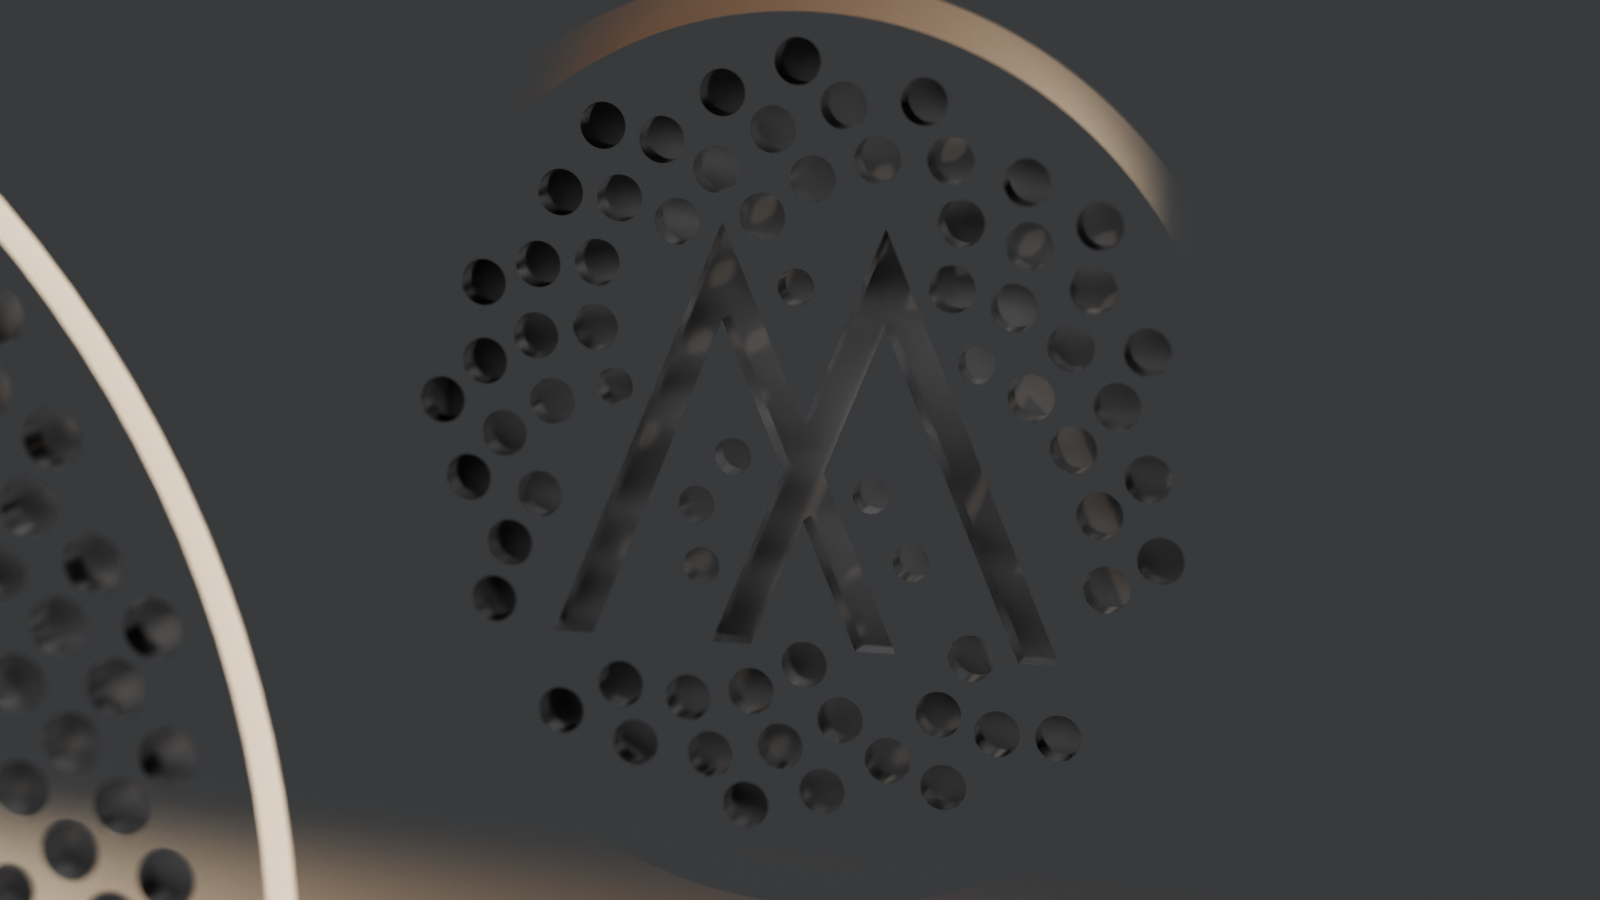
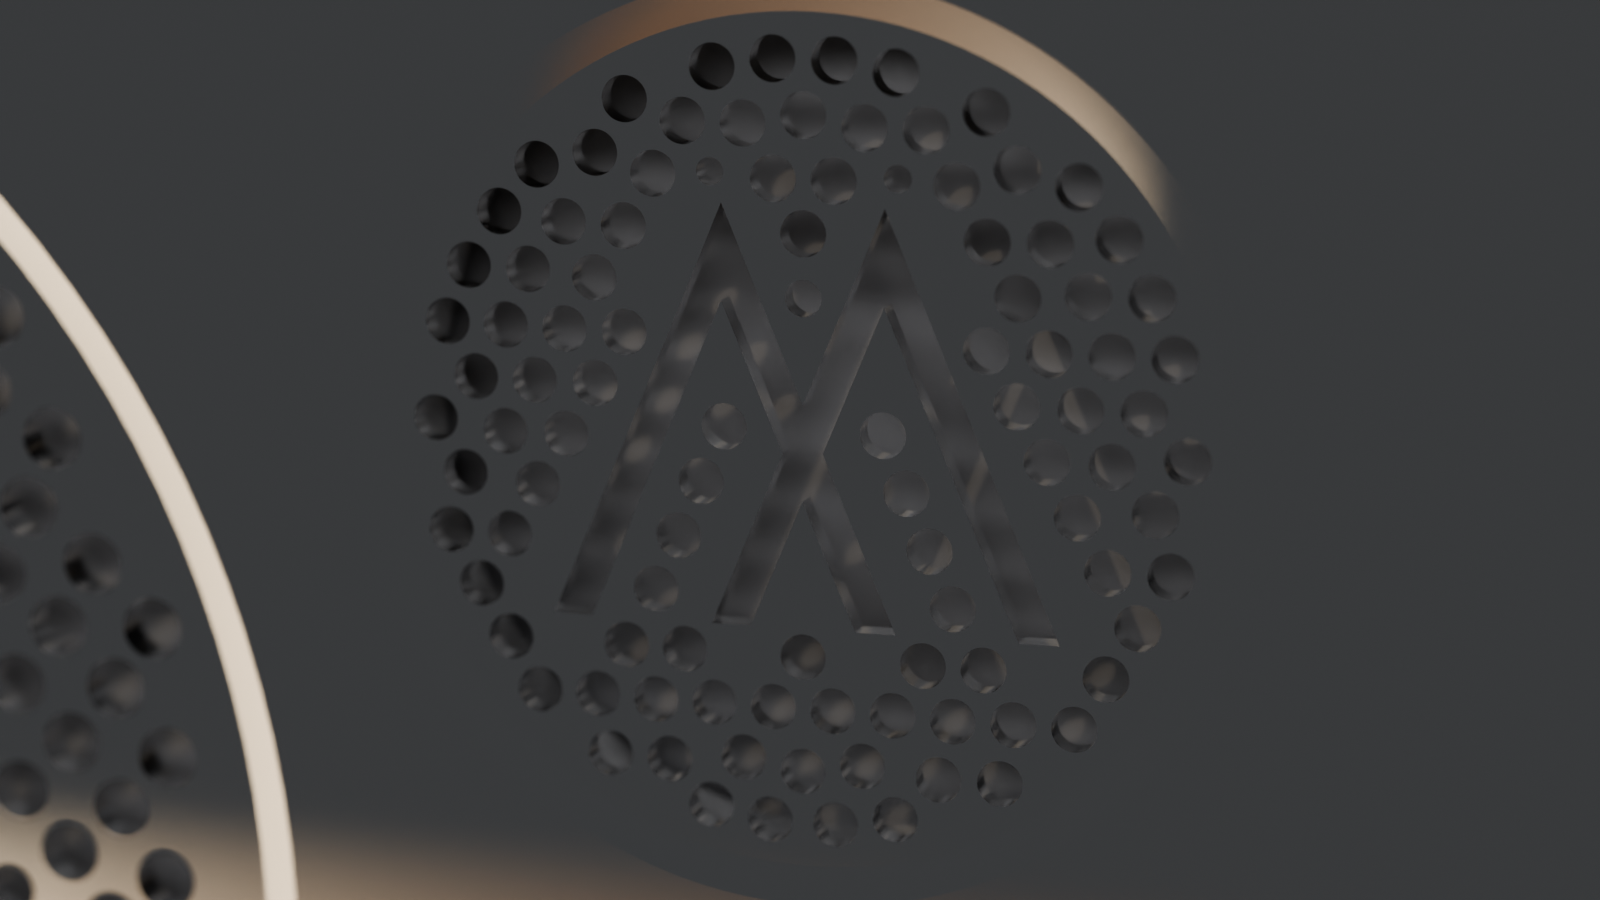
Blende: Hochtöner-Feld neu (101 Bohrungen, M +1,5 mm aufrecht), Haut Sub/TMT gestuft 2,2/2,85/3,5 mm mit 45°-Flanken und Hohlkehle R2,5; Renderings (Hochtöner-Feld)
Claude-Session: https://claude.ai/code/session_014iG6sEK7aaH6CHokuxQx5R

diff --git a/testprojekt-alu-bauteil/04_cad/blende/blende_2a35.py b/testprojekt-alu-bauteil/04_cad/blende/blende_2a35.py
@@ -14,13 +14,17 @@ sys.path.insert(0,HERE); import lochmuster_opt as LM
 LM.WMIN=0.8
 import signet_m
 M_WIDTH=28.0             # ausgefrästes Signet-M im Hochtöner (echte Kontur), Breite in mm
-M_ANG=0.0                # waagerecht
-M_DY=0.5                 # 0,5 mm nach oben versetzt
+M_ANG=0.211              # M-Achse senkrecht (Signet-Eigenneigung 3,711° minus 3,5° Achsneigung)
+M_DX,M_DY=-0.04,1.52     # Umschlagrechteck des M im Feldzentrum (−0,04/+0,02) und 1,5 mm nach oben gesetzt
+HT_LOECHER=os.path.join(ROOT,'03_konzepte','akustik','ht_neu_loecher.json')   # Hochtöner-Feld 2025: 101 Bohrungen (Raster Ø2,5 + Ø2,0/1,5), außen entspannt, Stege ≥ 0,8 mm
 
 # ---------------- Parameter ----------------
 T=8.5                    # Blendendicke
 SKIN=2.2                 # Restwand Lochfelder Sub/TMT
 SKIN_HT=1.5              # Restwand Hochtöner-Feld
+# Sub/TMT: Haut Mitte 2,2 mm, nach außen stufenweise dicker bis 3,5 mm (Variante B), Fräsung von hinten mit 45°-Fräser (Flanke Δr = Δt), Radius zur Zylinderwand
+HAUT_STUFEN=[(0.42,2.85),(0.72,3.5)]   # (Radius-Anteil am Feldradius, Wand außerhalb); Mitte = SKIN
+HAUT_RADIUS=2.5          # Hohlkehle Haut-Rückseite zur Zylinderfläche (2–3 mm)
 CSINK_HT=0.0             # rückseitige Senkung: verworfen (nur 0,1–0,2 dB Gewinn, Mehrkosten)
 RECESS=0.6               # Absenkung Lochfeld vorne
 RING=2.0                 # Breite Diamantschnitt-Konus
@@ -114,7 +118,7 @@ def build_blende():
         outer=cq.Wire.makeCircle(Rf,cq.Vector(x,y,0),cq.Vector(0,0,1))
         inners=[]
         if D<60:   # Signet-M (echte Kontur) + Löcher nur mit Steg >= 0,8 mm zum M
-            M=signet_m.signet_poly(M_WIDTH,x,y+M_DY,ang=math.radians(M_ANG))
+            M=signet_m.signet_poly(M_WIDTH,x+M_DX,y+M_DY,ang=math.radians(M_ANG))
             def segd(p,a,b):
                 p,a,b=map(np.array,(p,a,b)); t=np.clip(np.dot(p-a,b-a)/np.dot(b-a,b-a),0,1); return np.linalg.norm(p-(a+t*(b-a)))
             def pip(p):
@@ -123,16 +127,41 @@ def build_blende():
                     (x1,y1),(x2,y2)=M[i],M[i-1]
                     if (y1>p[1])!=(y2>p[1]) and p[0]<(x2-x1)*(p[1]-y1)/(y2-y1)+x1: c=not c
                 return c
-            pts=[(px,py,d) for px,py,d in pts if not pip((px,py)) and min(segd((px,py),M[i-1],M[i]) for i in range(len(M)))-d/2>=0.8]
+            pts=[(x+hx,y+hy,hd) for hx,hy,hd in json.load(open(HT_LOECHER))['holes']]      # feste Lochliste (Koordinaten relativ zur Feldmitte)
+            assert all(not pip((px,py)) and min(segd((px,py),M[i-1],M[i]) for i in range(len(M)))-d/2>=0.79 for px,py,d in pts), 'Bohrung zu nah am M'
             inners.append(cq.Wire.makePolygon([cq.Vector(px,py,0) for px,py in M],close=True))
         allpts+=pts
         inners+=[cq.Wire.makeCircle(d/2,cq.Vector(px,py,0),cq.Vector(0,0,1)) for px,py,d in pts]
         skin=cq.Solid.extrudeLinear(cq.Face.makeFromWires(outer,inners),cq.Vector(0,0,sk)).translate((0,0,-RECESS-sk))
+        ring_pending=None
+        if D>60:   # stufenweise dickere Haut nach außen: Rotationskörper unter der 2,2-mm-Platte, 45°-Flanken, Hohlkehle zur Zylinderwand
+            z0=-RECESS-sk; zt=lambda t:-RECESS-t; Rf=D/2; steps=[(0.0,sk)]+[(a*Rf,t) for a,t in HAUT_STUFEN]
+            pr=[(steps[1][0],zt(sk))]
+            for (r1,t1),(r2,t2) in zip(steps[:-1],steps[1:]):
+                dt=t2-t1; pr+=[(r2+dt,zt(t2))] if False else []
+            # Profilpunkte von innen nach außen: Flanke ab Radius r_k (45°) auf die nächste Wand
+            pts_p=[(steps[1][0],zt(sk))]; tprev=sk
+            for k in range(1,len(steps)):
+                rk,tk=steps[k]; dt=tk-tprev; pts_p+=[(rk+dt,zt(tk))]
+                if k+1<len(steps): pts_p+=[(steps[k+1][0],zt(tk))]
+                tprev=tk
+            tmax=steps[-1][1]; fr=HAUT_RADIUS
+            wp=cq.Workplane('XZ',origin=(x,y,0)).moveTo(steps[1][0],z0+0.05).lineTo(*pts_p[0])
+            for pp in pts_p[1:]: wp=wp.lineTo(*pp)
+            wp=wp.lineTo(Rf-fr,zt(tmax)).threePointArc((Rf-fr+fr*0.70711,zt(tmax)-fr+fr*0.70711),(Rf,zt(tmax)-fr)).lineTo(Rf,z0+0.05).close()
+            ring=wp.revolve(360,(0,0,0),(0,1,0)).val()
+            cyls=cq.Compound.makeCompound([cq.Solid.makeCylinder(d/2,30,pnt=cq.Vector(px,py,-25),dir=cq.Vector(0,0,1)) for px,py,d in pts])
+            ring=ring.cut(cyls)
+            ring_pending=ring
+            print(f'    Haut gestuft: Mitte {sk} mm, Stufen {HAUT_STUFEN}, Radius {fr} mm, Vol {ring.Volume():.0f} mm³')
         if D<60 and CSINK_HT>0:   # rückseitige 90°-Senkungen (optional)
             cones=[cq.Solid.makeCone(d/2+CSINK_HT,d/2,CSINK_HT,pnt=cq.Vector(px,py,-RECESS-sk),dir=cq.Vector(0,0,1)) for px,py,d in pts]
             skin=skin.cut(cq.Compound.makeCompound(cones))
         print(f'  Feld Ø{D}: {len(pts)} Bohrungen {sorted(set(p[2] for p in pts))}, Restwand {sk} mm'+(f', Signet-M {M_WIDTH} mm' if D<60 else '')+(' + Senkung' if (D<60 and CSINK_HT>0) else ''))
-        body=body.union(cq.Workplane().add(skin.Solids()))
+        v_before=body.val().Volume(); body=body.union(cq.Workplane().add(skin.Solids()))
+        if ring_pending is not None:
+            body=body.union(cq.Workplane().add(ring_pending.Solids()))
+            print(f'    Körpervolumen {v_before/1000:.1f} -> {body.val().Volume()/1000:.1f} cm³ (mit Haut und gestuftem Ring)')
     # Logo einfräsen
     faces,C=logo_faces()
     for f in faces:
